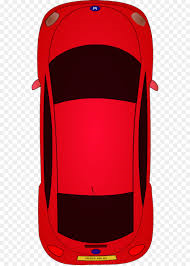
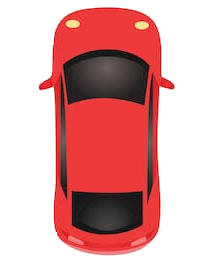
- Added a separate CSS file - Added clear images

diff --git a/saveTheBox/saveTheBox.js b/saveTheBox/saveTheBox.js
@@ -211,7 +211,7 @@ function level1()
 	myObstacles = [];
 	myScore;
 	redGamePieceW = 30;
-	redGamePieceH = 30;
+	redGamePieceH = 40;
 	cornerGap = 5;
 	redGamePieceX;
 	redGamePieceY;
@@ -241,7 +241,7 @@ function level2()
 	myObstacles = [];
 	myScore;
 	redGamePieceW = 30;
-	redGamePieceH = 30;
+	redGamePieceH = 40;
 	cornerGap = 5;
 	redGamePieceX;
 	redGamePieceY;
@@ -271,7 +271,7 @@ function level3()
 	myObstacles = [];
 	myScore;
 	redGamePieceW = 30;
-	redGamePieceH = 30;
+	redGamePieceH = 40;
 	cornerGap = 5;
 	redGamePieceX;
 	redGamePieceY;
@@ -303,8 +303,7 @@ function startTheGame()
 	redGamePiece = new component(redGamePieceW, redGamePieceH, "yellowCarImage.png", redGamePieceX, redGamePieceY, "image");
 	backgroundRoad = new component(canvasW, canvasH, "roadImage.png", 0, 0, "image");
 	myScore = new component("20px", "Consolas", "red", 10, 40, "text");
-	myMusic.play();
-	
+	//myMusic.play();
 }
 
 level1();

diff --git a/saveTheBox/saveTheBox.html b/saveTheBox/saveTheBox.html
@@ -1,13 +1,7 @@
 <!DOCTYPE html>
 <html>
 	<head>
-		<style>
-			canvas {
-				border:1px solid #d3d3d3;
-				background-color: #f1f1f1;
-				float:left;
-			}
-		</style>
+		<link href="carRace.css" rel="stylesheet">
 	</head>
 	<body>
 		<canvas id="myCanvas"></canvas>

diff --git a/saveTheBox/carRace.css b/saveTheBox/carRace.css
@@ -1,0 +1,8 @@
+#myCanvas {
+	border:1px solid #d3d3d3;
+	background-color: #3AF8B9;
+	float:left;
+}
+
+
+
